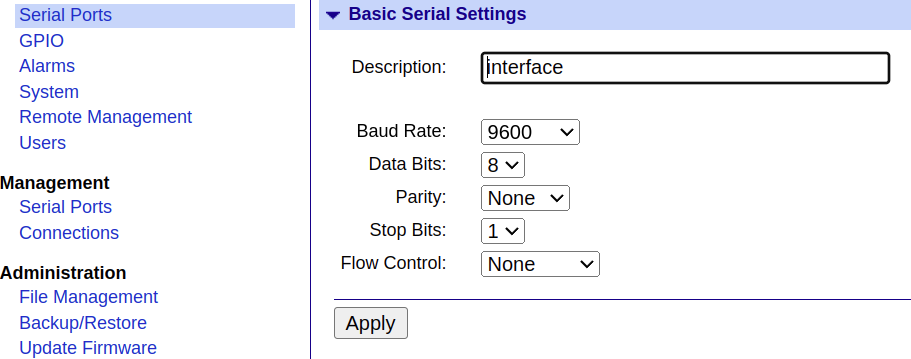
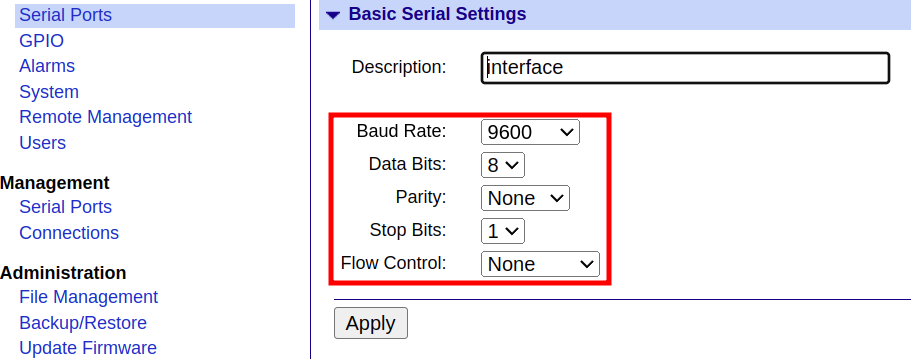
Finishing CT Ethernet Adapter tutorial.

Changed region(s): [[0.3381, 0.3064, 0.6762, 0.7967]]

diff --git a/README.md b/README.md
@@ -36,3 +36,15 @@ port as in the figure bellow. A new tab with Port Profile Settings will be shown
 Change Profile. You will be prompted to choose one option on the Select Port Profile tab. Choose TCP Sockets as in the figure bellow.
 
 ![Firware webpage](./images/adapter-config3.png)
+
+- After choosing TCP Sockets you will be prompted to enable the desired TCP ports. The communication between the ctlaser_driver and the device is made
+using the Raw TCP port which defaults to port ```port: 2101```. As in the figure bellow, enable at least the Raw TCP and Telnet so it gets easier to check
+for communication problems using Telnet.
+
+![Firware webpage](./images/adapter-config4.png)
+
+- Another fundamental step is to configure the serial port settings in order for the adapter to be able to communicate with the serial port. In order to do so,
+still on the Serial Port Configurations - Interface tab, right bellow the Port Profile Settings you will find Basic Serial Settings. As in the figure bellow,
+set the baud rate to the same one configured on the device. The other properties can be found in pyrometer's the manual.
+
+![Firware webpage](./images/adapter-config5.png)
